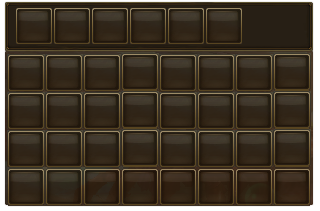
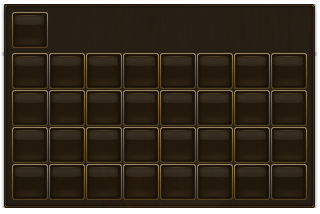
[1.0.1] Chest system rework 1/5

Changed region(s): [[0.0, 0.0, 1.0, 0.9953]]

diff --git a/client/chest/chest.js b/client/chest/chest.js
@@ -2,10 +2,17 @@ Session.setDefault('bag', []);
 Session.setDefault('chat', []);
 Session.setDefault('opened', 0);
 Session.setDefault('selected', 0);
+Session.setDefault('amount', 0);
+
+intervalID = 0;
 
 Template.chest.helpers({
 	getChests: function () {
 		return Chests.find({active: true});
+	},
+
+	getOtherChests: function () {
+		return Chests.find({active: false});
 	},
 
 	getResult: function () {
@@ -21,7 +28,7 @@ Template.chest.helpers({
 	},
 
 	selected: function () {
-		return Session.get('selected') !== 0;
+		return Session.get('selected');
 	}
 });
 
@@ -31,40 +38,59 @@ Template.chest.events({
 		Session.set('opened', 0);
 		$('.chest').removeClass('selected');
 		$(e.currentTarget).addClass('selected');
-		Session.set('selected', this.id);
+		Session.set('selected', this);
+		clearInterval(intervalID);
 	},
 
 	'submit #bag': function (e, t) {
 		e.preventDefault();
+		let amount = e.target.amount.value;
+		let expected = 24725;
 
-		var chest = Chests.findOne({id: Session.get('selected')});
-		var curItems = Session.get('bag');
-		var curChat = Session.get('chat');
-		var chat = t.find('.chat');
-		var item = OpenChest(chest.items);
-		var opened = Session.get('opened');
-		var msg = 'Recebeu ' + item.amount + ' ' +  item.name;
+		let id = Session.get('selected').id;
+		let chest = Chests.findOne({id: id});
+		let curItems = Session.get('bag');
+		let curChat = Session.get('chat');
+		let chat = t.find('.chat');
+		let opened = Session.get('opened');
+		let item = {};
+		let msg = '';
 
-		if (curItems.length > 0) {
-			var find = _.find(curItems, function (obj, i) {
-				if (obj.id == item.id) {
-					return curItems[i].amount += item.amount;
-				}
-			});
-			if (find === undefined) {
-				curItems.push(item);
-			}
-		} else {
-			curItems.push(item);
+		if (intervalID) {
+			clearInterval(intervalID);
 		}
 
-		curChat.push(msg);
-		Session.set('bag', curItems);
-		Session.set('chat', curChat);
-		Session.set('opened', opened + 1);
+		intervalID = setInterval(function () {
+			chest = Chests.findOne({id: id});
+			item = OpenChest(chest.items);
+			if (curItems.length > 0) {
+				let find = _.find(curItems, function (obj, i) {
+					if (obj.id == item.id) {
+						return curItems[i].amount += item.amount;
+					}
+				});
+				if (find === undefined) {
+					curItems.push(item);
+				}
+			} else {
+				curItems.push(item);
+			}
 
-		setTimeout(function () {
-			chat.scrollTop = chat.scrollHeight;
-		}, 100);
+			opened++;
+			amount--;
+			msg = 'Recebeu ' + item.amount + ' ' +  item.name;
+			curChat.push(msg);
+			Session.set('bag', curItems);
+			Session.set('chat', curChat);
+			Session.set('opened', opened);
+
+			console.log(item.id);
+			if (amount === 0 || (expected && (item.id === expected))) {
+				clearInterval(intervalID);
+			}
+		}, 10);
+		// setTimeout(function () {
+		// 	chat.scrollTop = chat.scrollHeight;
+		// }, 100);
 	},
 });
